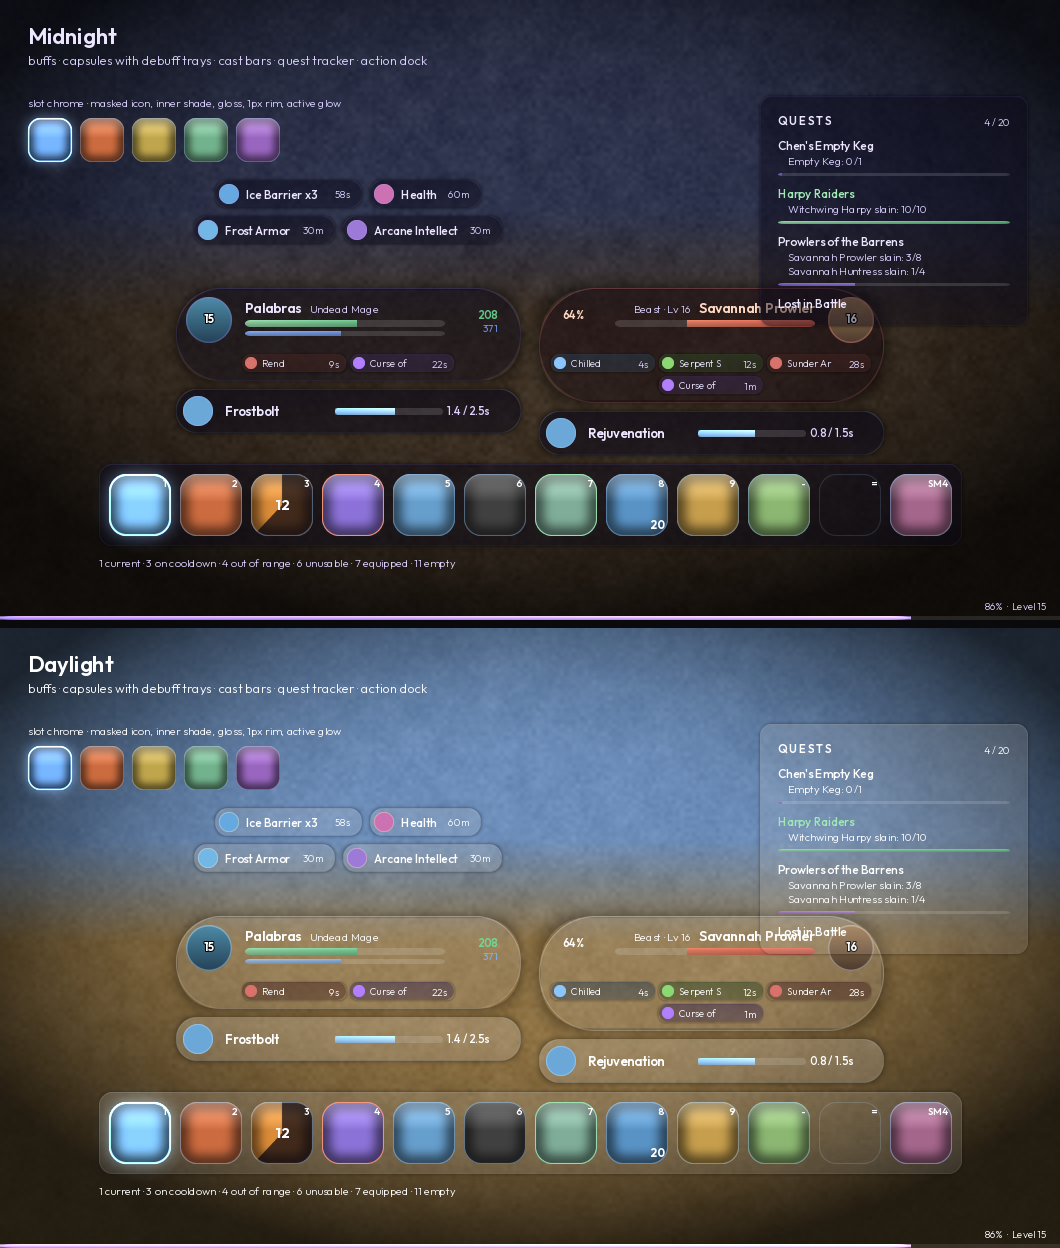
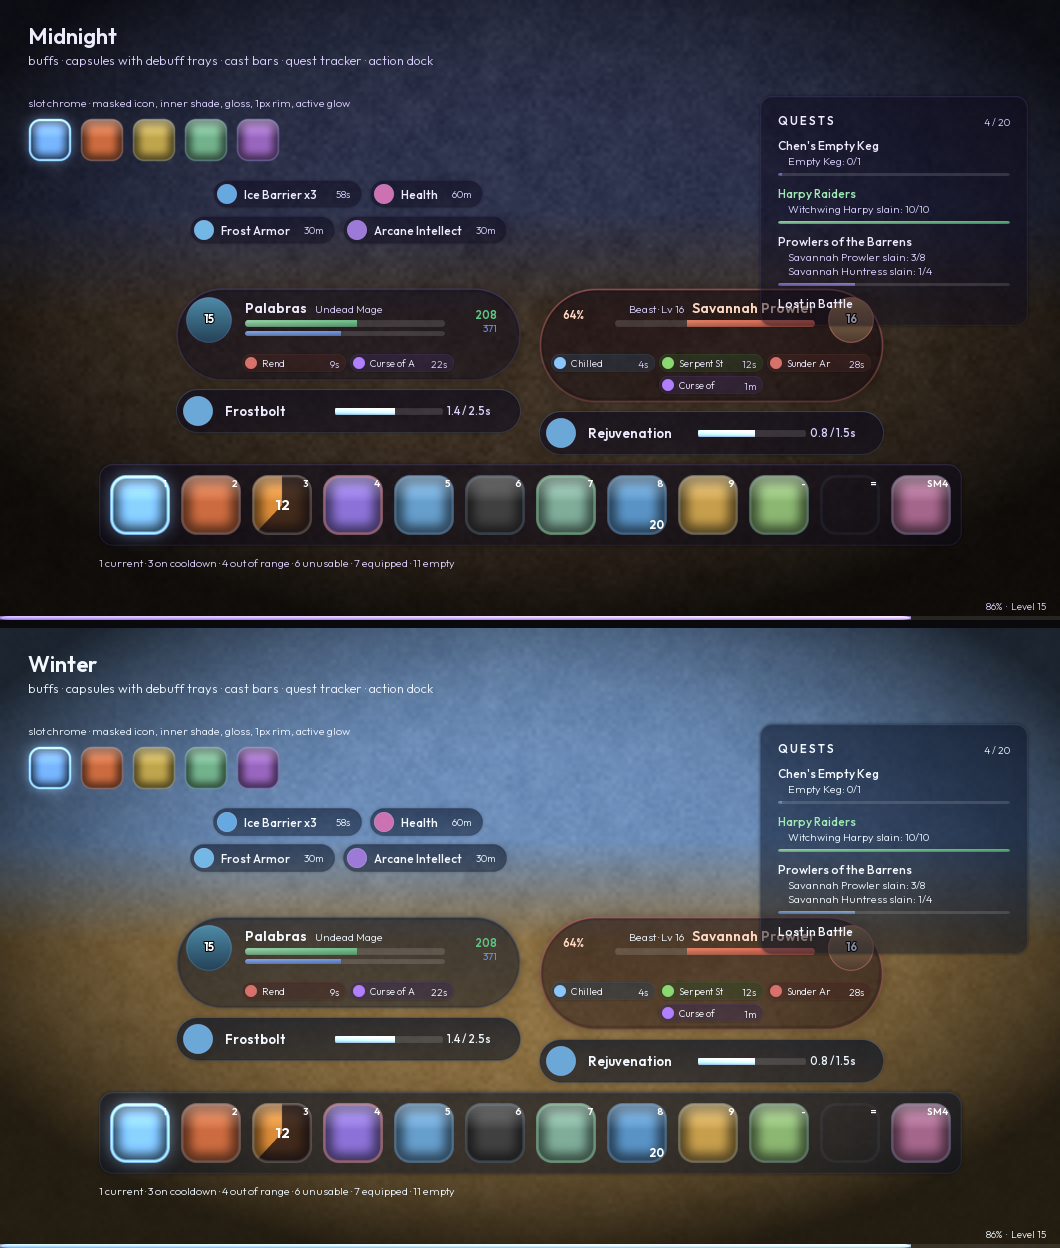
Layout and Errors windows on the shared window build; preview.py works again
Both windows take the shared corner, the strong fill deepened to the
reading fill, the glassEdge rim and the profile's shadow, and repaint
on a skin change. They were corner 16 on the dialog fill with the
bright rim. The errors box now opens at the profile's scale like every
other window of ours: at 1.0 its rim drew thin and faint beside the
quest log's, though corner, rim colour and fill all matched.

Tools/preview.py read skins by parsing Core/Palette.lua's token tables,
which no longer exist: a skin is composed at load from its chrome
values. Tools/palette_dump.lua loads the palette in LuaJIT and prints
the computed skins for it. The preview renders Midnight and Winter.

Harness: Era 4,602, Forever 4,609.

diff --git a/Tools/preview.py b/Tools/preview.py
@@ -13,8 +13,8 @@ Out:  Tools/preview.png
 """
 
 import os
-import re
 import struct
+import subprocess
 
 import numpy as np
 from PIL import Image, ImageDraw, ImageFont
@@ -127,76 +127,65 @@ def C(r, g, b, a=1.0):
 # --------------------------------------------------------------------------
 # skins
 #
-# Parsed straight out of Core/Palette.lua rather than duplicated here. The two
-# were hand-kept copies of each other until 2026-08-11, which meant the preview
-# could render a skin the game does not have - and it did: every quest-log token
-# added that day was missing from this file, so the preview was quietly a
-# generation behind whenever a colour changed.
+# ASKED OF THE PALETTE, NOT PARSED OUT OF IT. A skin is no longer written out
+# token by token: Core/Palette.lua composes it from eight chrome values and the
+# shared semantic colours when it loads. This file parsed the old token tables
+# and stopped working when they went (it looked for a `daylight` skin, which is
+# gone). Tools/palette_dump.lua loads the palette in LuaJIT - the harness's
+# interpreter - and prints what the game actually gets, so this cannot fall a
+# generation behind again.
 #
-# Only what the painters below actually use is extracted, and a missing token is
-# a hard error rather than a silent black.
+# Only what the painters below actually use is taken, and a missing token is a
+# hard error rather than a silent black.
 # --------------------------------------------------------------------------
 
-PALETTE_LUA = os.path.join(ROOT, "Core", "Palette.lua")
+# Rendered one above the other: the default, and Joe's own.
+SCENE_SKINS = ("midnight", "winter")
 
 
-def parse_palette():
-    """Read Core/Palette.lua and return {Skin: {token: colour or pair}}."""
-    src = open(PALETTE_LUA, encoding="utf-8").read()
-
-    call = re.compile(r"C\(\s*(\d+)\s*,\s*(\d+)\s*,\s*(\d+)\s*(?:,\s*([\d.]+)\s*)?\)")
-    entry = re.compile(r"^\t\t(\w+)\s*=\s*(\{\s*C\([^}]*\}|C\([^)]*\))", re.M)
-
-    def to_c(r, g, b, a):
-        return C(int(r), int(g), int(b), float(a) if a else 1.0)
-
+def parse_palette(names=SCENE_SKINS):
+    """Ask Core/Palette.lua for its skins: {name: {token: colour or tuple}}."""
+    out = subprocess.run(["luajit", os.path.join(ROOT, "Tools", "palette_dump.lua")]
+                         + list(names), capture_output=True, text=True, check=True).stdout
     skins = {}
-    for name in ("midnight", "daylight"):
-        head = src.index("\n\t%s = {" % name)
-        depth, i = 0, head
-        while True:
-            if src[i] == "{":
-                depth += 1
-            elif src[i] == "}":
-                depth -= 1
-                if depth == 0:
-                    break
-            i += 1
-        body = src[head:i]
-
-        table = {"_light": re.search(r"light\s*=\s*true", body) is not None}
-        for tok, raw in entry.findall(body):
-            cols = [to_c(*m) for m in call.findall(raw)]
-            if not cols:
-                continue
-            table[tok] = tuple(cols) if raw.lstrip().startswith("{") else cols[0]
-        skins[name.capitalize()] = table
+    for line in out.splitlines():
+        name, tok, raw = line.split("\t")
+        if raw in ("true", "false"):
+            continue
+        cols = [tuple(float(x) for x in part.split(",")) for part in raw.split(";")]
+        skins.setdefault(name, {})[tok] = tuple(cols) if len(cols) > 1 else cols[0]
     return skins
 
 
 def build_skins():
     """Map Palette.lua's vocabulary onto the names the painters below use."""
     out = {}
-    for label, t in parse_palette().items():
-        def need(tok, _t=t, _l=label):
+    for name, t in parse_palette().items():
+        def need(tok, _t=t, _n=name):
             if tok not in _t:
                 raise KeyError("%s: Palette.lua has no '%s' - preview.py and the "
-                               "palette have drifted apart" % (_l, tok))
+                               "palette have drifted apart" % (_n, tok))
             return _t[tok]
 
-        out[label] = dict(
+        hostile = need("hostile")
+        cast = need("cast")
+        out[name.capitalize()] = dict(
             glass=need("glass"), glassStrong=need("glassStrong"),
             edge=need("glassEdge"), shadow=need("shadow"),
             noise=C(255, 255, 255, 0.05),
             text=need("text"), textDim=need("textDim"),
             health=need("health"), power=need("power"),
             hostileBar=need("hostileBar"),
-            targetGlass=need("targetGlass"), targetEdge=need("targetEdge"),
+            targetGlass=need("targetGlass"),
+            # There is no targetEdge token any more: the game builds the target's
+            # rim from its reaction (Palette:ReactionEdge), hostile at .55 - and
+            # the scene's target is a hostile mob.
+            targetEdge=hostile[:3] + (0.55,),
             targetText=need("targetText"),
-            cast=need("cast"), castEdge=need("castEdge"), castGlow=need("castGlow"),
+            # Nor a castGlow: the bright end of the cast gradient stands in.
+            cast=cast, castEdge=need("castEdge"), castGlow=cast[-1],
             accent=need("accent"), xp=need("xp"),
-            light=t["_light"],
-            # The orb is pulled toward a dark base on both skins by
+            # The orb is pulled toward a dark base on every skin by
             # Palette:OrbColor, so these stay fixed rather than tracking `text`.
             classOrb=(C(78, 139, 167), C(36, 66, 87)),
             mobOrb=(C(161, 124, 84), C(77, 59, 47)),
@@ -440,7 +429,9 @@ def backdrop(w, h, warm=True):
 def scene(skin_name, width=1060):
     skin = SKINS[skin_name]
     H = 620
-    canvas = backdrop(width, H, warm=(skin_name == "Daylight"))
+    # The second skin over the bright savanna: glass is judged against a busy,
+    # sunlit world as well as a dim one.
+    canvas = backdrop(width, H, warm=(skin_name != "Midnight"))
     d = ImageDraw.Draw(canvas)
 
     d.text((28, 22), skin_name, font=font("SemiBold", 22), fill=rgb255(skin["text"]))
@@ -689,8 +680,7 @@ def scene(skin_name, width=1060):
 
 def main():
     load_all()
-    a = scene("Midnight")
-    b = scene("Daylight")
+    a, b = (scene(n.capitalize()) for n in SCENE_SKINS)
     out = Image.new("RGBA", (a.width, a.height + b.height + 8), (10, 10, 12, 255))
     out.paste(a, (0, 0))
     out.paste(b, (0, a.height + 8))
